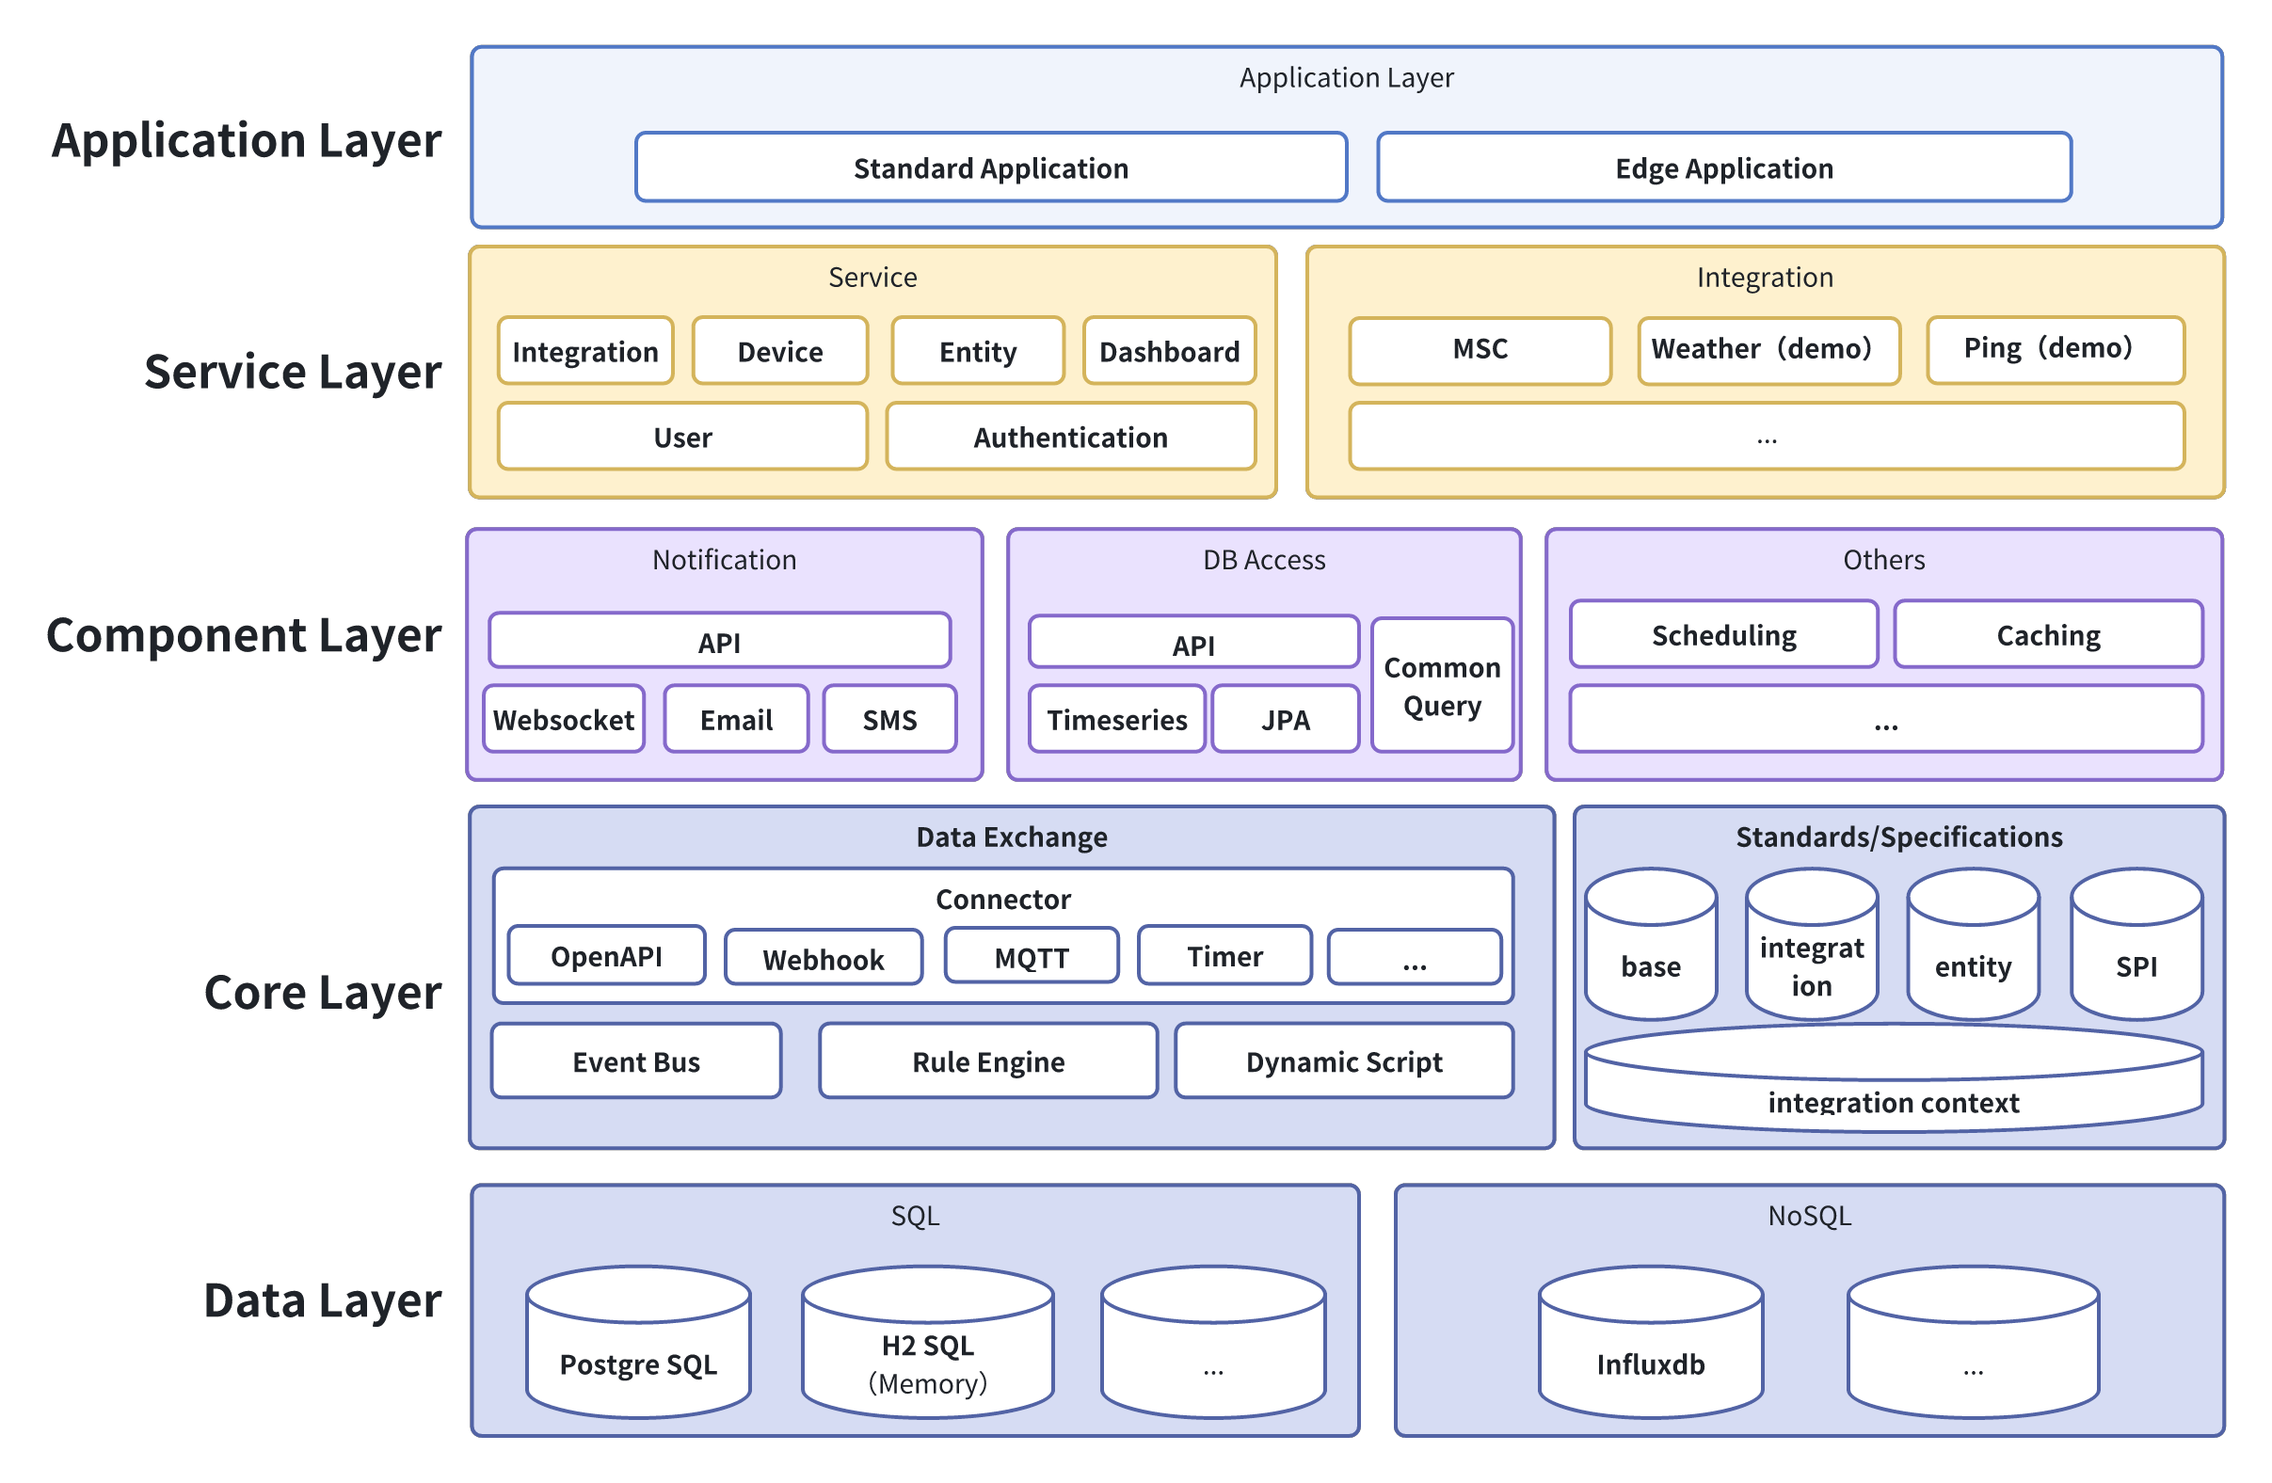
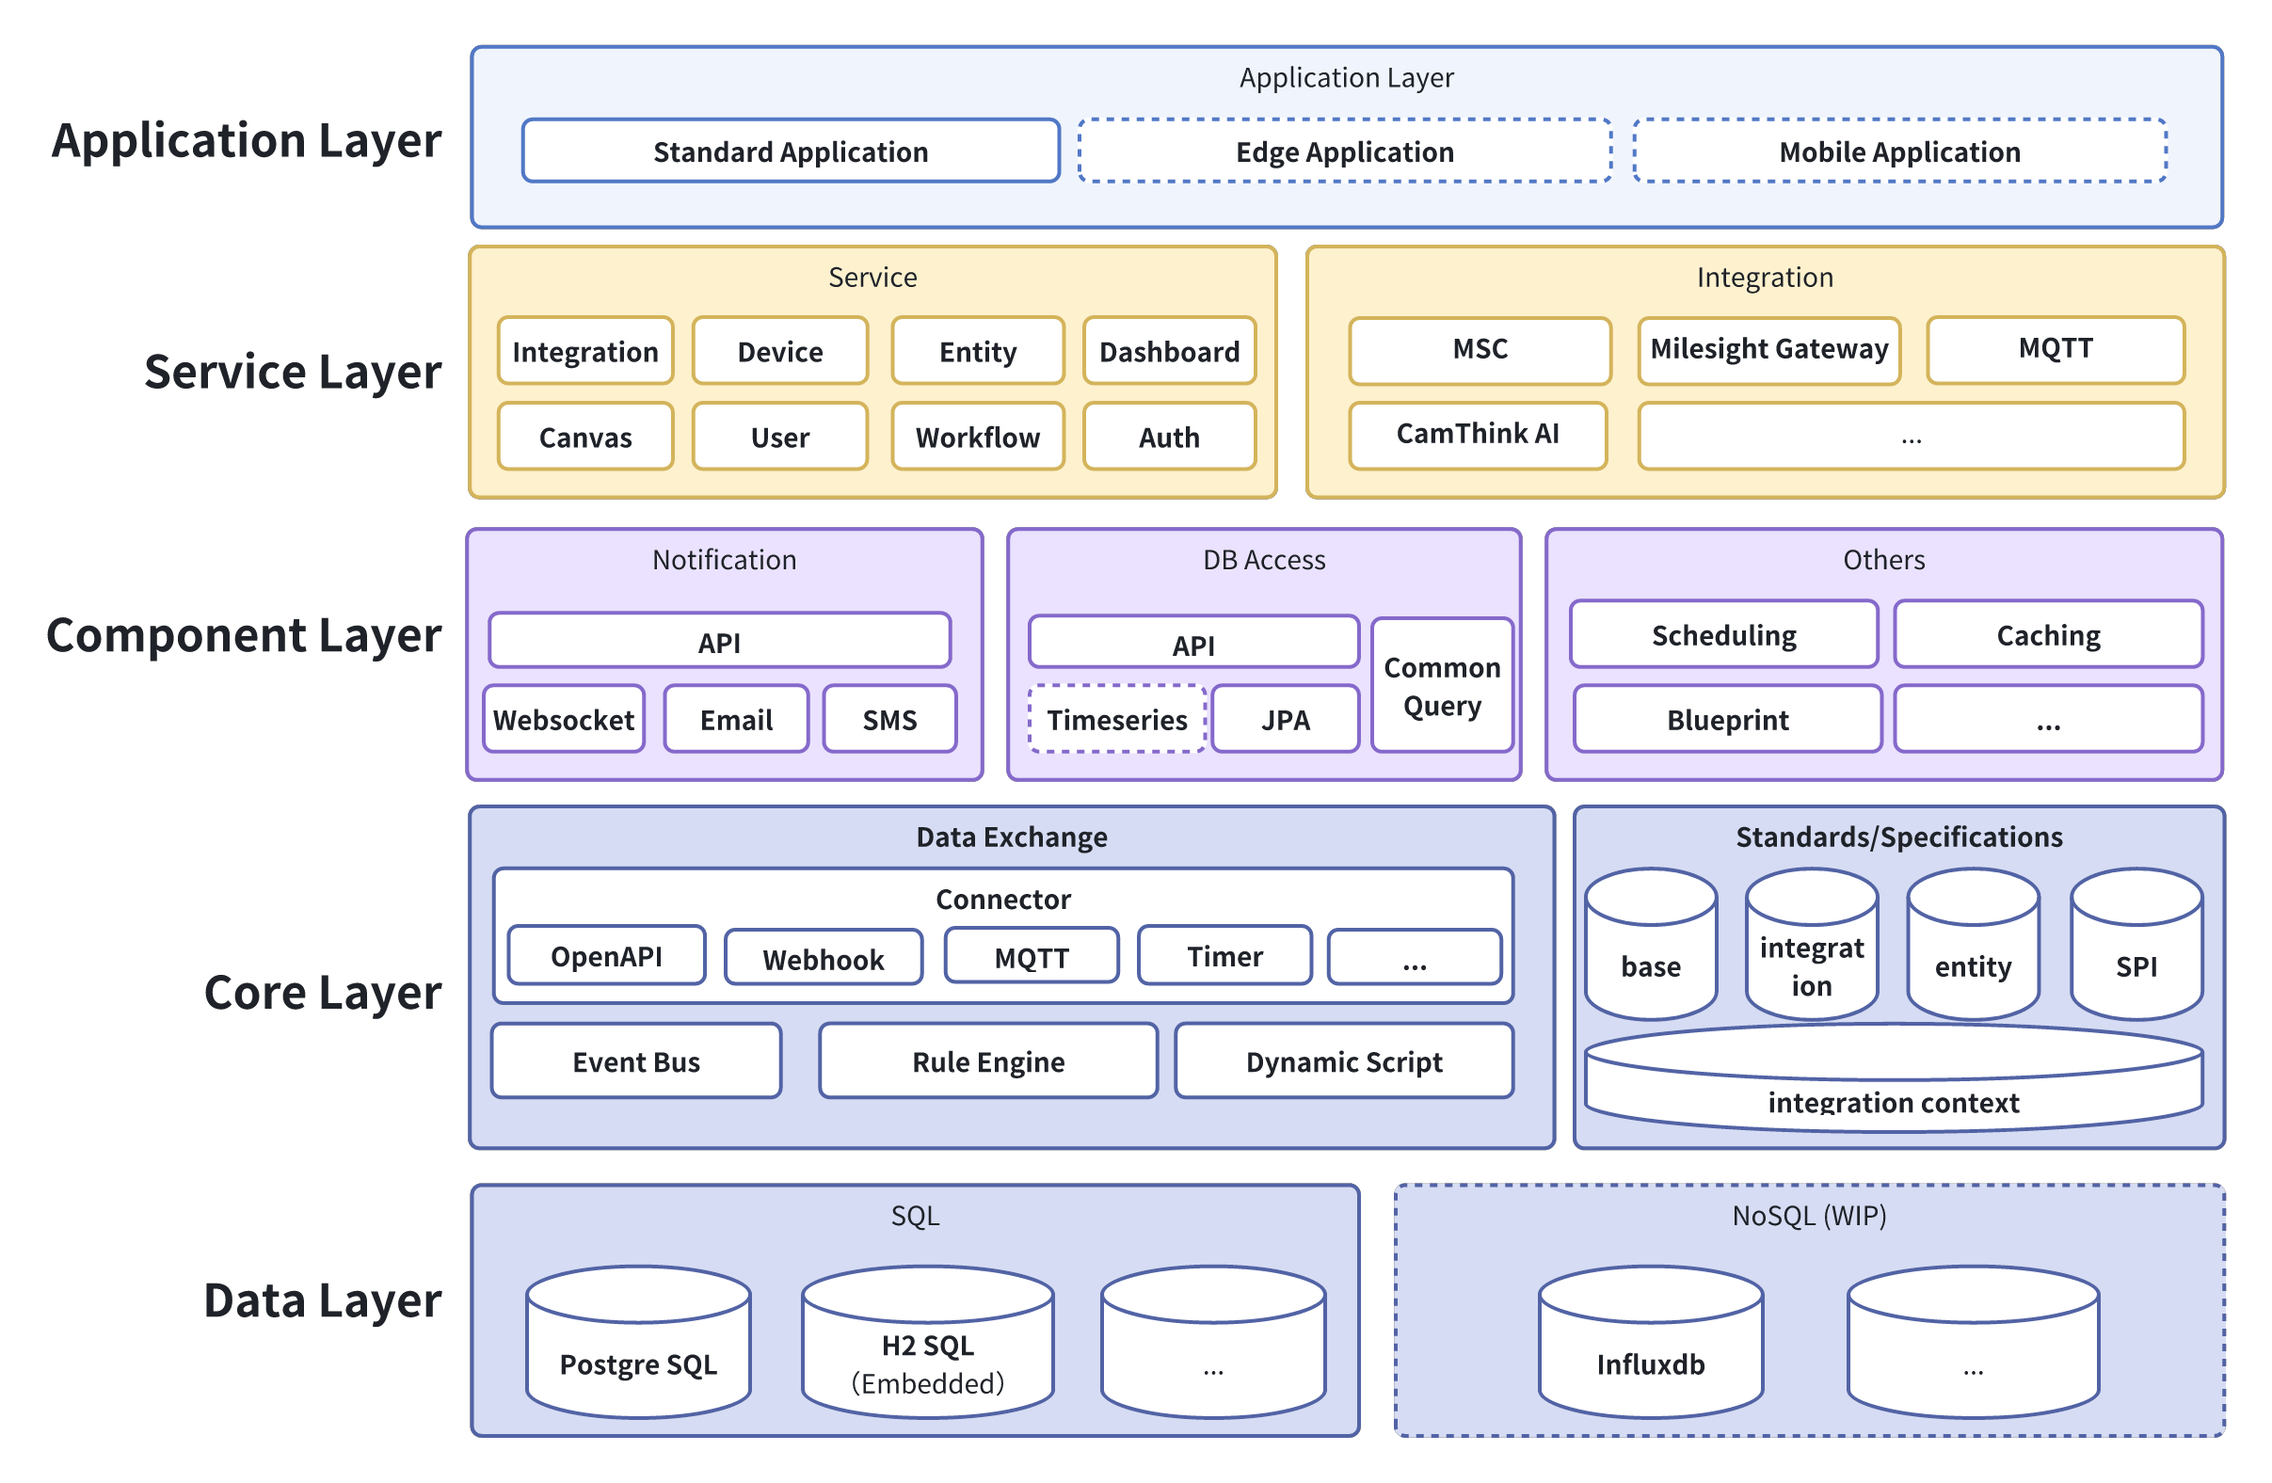
doc: update general doc

diff --git a/i18n/en/docusaurus-plugin-content-docs/current/dev-guides/key-dev-concept.md b/i18n/en/docusaurus-plugin-content-docs/current/dev-guides/key-dev-concept.md
@@ -8,33 +8,38 @@ import { ProjectName } from '/src/consts';
 
 ## Concepts
 
-### Identifier
-An `identifier` refers to the unique name of an object, which must be distinct within the same **namespace**.
+### identifier
+An `identifier` refers to the unique identifier of an object, which must not be duplicated within the same **namespace**.
 
-It can only contain the following characters: `A-Z`, `a-z`, `0-9`, `_`, `@`, `#`, `-`, `/`, `[`, `]`, `:`, and it is recommended to use **Snake Case (lowercase letters with underscores, such as `foo_bar`)** for naming.
+It can only contain the following characters: `A-Z` `a-z` `0-9` `_` `@` `#` `-` `/` `[` `]` `:`, and it is recommended to use **snake_case** (lowercase letters with underscores, such as `foo_bar`) for naming.
 
-* For **integrations** the namespace is **global**, meaning that different integrations within a single {ProjectName} application instance cannot have duplicate integration `identifiers`. Generally, all {ProjectName} integration `identifiers` should be unique.
-* For **devices**, the namespace is the **integration to which the device belongs**, meaning that each device within an integration should have a unique `identifier`, but device `identifiers` can be duplicated across different integrations. If integrating with third-party platforms, it is recommended to use the third-party platform's device identifier as the `identifier` to facilitate mapping between the integration and the corresponding device on that platform.
-* For **entities**:
-    * The namespace of an **integration's entity** is **its integration**.
-    * The namespace of a **device's entity** is **its device**. Entity `identifiers` can be duplicated across different integrations/devices.
-    * The namespace of a **child entity** is **its parent entity**. Child entity `identifiers` can be duplicated across different parent entities.
+#### Integration Identifier
+The namespace is **global**, meaning that different integrations within a single {ProjectName} application instance cannot have duplicate integration `identifier`s. In general, all integration `identifier`s in {ProjectName} should be unique.
+
+#### Device Identifier
+The namespace is **within the integration**, meaning that each device's `identifier` within an integration must be unique. Device `identifier`s can be duplicated across different integrations. If integrating with a third-party platform, we recommend using the device identifier from the third-party platform as the `identifier` for easier mapping between the integration and corresponding devices on that platform.
+
+#### Entity Identifier
+* The namespace for **integration entities** is **their integration**.
+* The namespace for **device entities** is **their device**. Entity `identifier`s may be duplicated across different integrations/devices.
+* The namespace for **child entities of a parent entity** is **their parent entity**. Child entity `identifier`s may be duplicated across different parent entities.
 
 :::tip Full Identifier
-In addition to the `identifier`, a child entity also has a `fullIdentifier`, which includes the identifier of its parent entity.
+Child entities also have the concept of a `fullIdentifier`, which includes the identifier of the parent entity.
 
-For example, if a child entity's `identifier` is `bar` and its parent entity's `identifier` is `foo`, then the child entity's `fullIdentifier` would be `foo.bar`.
+For example: If a child entity's `identifier` is `bar` and its parent entity's `identifier` is `foo`, then the child entity's `fullIdentifier` would be `foo.bar`.
 :::
 
-### Key
 
-The concept of a key is primarily significant for **entities**.
+### key
 
-The key format for an **integration's entity** is:
+The concept of a key is typically only meaningful for **entities**.
+
+The key format for **integration entities** is like:
 ```
-{integration_identifier}.integration.{entity_identifier}[.{child_entity_identifier}]
+{integration identifier}.integration.{entity identifier}[.{child entity identifier}]
 ```
-The key format for a **device's entity** is:
+The key format for **device entities** is like:
 ```
-{integration_identifier}.device.{device_identifier}.{entity_identifier}[.{child_entity_identifier}]
+{integration identifier}.device.{device identifier}.{entity identifier}[.{child entity identifier}]
 ```

diff --git a/docs/dev-guides/key-dev-concept.md b/docs/dev-guides/key-dev-concept.md
@@ -14,21 +14,22 @@ import { ProjectName } from '/src/consts';
 
 只能含有以下字符:`A-Z` `a-z` `0-9` `_` `@` `#` `$` `-` `/` `[` `]` `:`，且最好以**蛇形(小写字母加下划线，如 `foo_bar`)命名**。
 
+#### 集成的identifier
+命名空间是**全局**，即一个{ProjectName}应用实例中的不同集成不能拥有重复的集成`identifier`。一般来说，所有{ProjectName}集成的`identifier`都不应该重复。
 
-* 对于**集成**来说，命名空间是**全局**，即一个{ProjectName}应用实例中的不同集成不能拥有重复的集成`identifier`。一般来说，所有{ProjectName}集成的`identifier`都不应该重复。
-* 对于**设备**来说，命名空间是这个**设备的所属的集成**，即一个集成下的每个设备的`identifier`都应该不同，集成之间的设备`identifier`可以重复。如果是与第三方平台集成，我们建议将第三方平台的设备标识符作为`identifier`，方便集成与这个平台的对应设备建立映射关系。
-* 对于**实体**来说：
-    * **集成的实体**命名空间是**它的集成**
-    * **设备的实体**命名空间是**它的设备**。不同集成/设备下实体的`identifier`可以重复
-    * **父实体的子实体**命名空间是**它的父实体**。不同父实体下子实体`identifier`可以重复
+#### 设备的identifier
+命名空间是**设备所在的集成**，即一个集成下的每个设备的`identifier`都应该不同，集成之间的设备`identifier`可以重复。如果是与第三方平台集成，我们建议将第三方平台的设备标识符作为`identifier`，方便集成与这个平台的对应设备建立映射关系。
+
+#### 实体的identifier
+* **集成的实体**的命名空间是**它的集成**
+* **设备的实体**的命名空间是**它的设备**。不同集成/设备下实体的`identifier`可以重复
+* **父实体的子实体**的命名空间是**它的父实体**。不同父实体下子实体`identifier`可以重复
 
 :::tip Full Identifier
-子实体除了`identifier`以外，还有`fullIdentifier`，表示包括父实体在内的标识符
+子实体还有`fullIdentifier`的概念，表示包括父实体在内的标识符。
 
 例如：某个子实体的`identifier`是`bar`，其父实体的`identifier`是`foo`。那么这个子实体的`fullIdentifier`就是`foo.bar`
 :::
-
-
 
 
 ### key

diff --git a/docs/user-guides/user-guide/workflow.md b/docs/user-guides/user-guide/workflow.md
@@ -123,7 +123,7 @@ sidebar_position: 5
 | 实体赋值 | 将该工作流前面节点的输出参数结果赋值到指定实体上。           |
 | 实体选择 | 选择实体的当前值作为参数传入工作流，用于后面节点的使用。     |
 | 服务调用 | 调用实体的服务或其它工作流。                                 |
-| 代码     | 编写代码实现灵活的数据处理功能， Beaver IoT支持JavaScript (ES6), Python(2.7), Groovy(4.0.26)和MVEL(2.5.2)编程语言。编写代码前，需要定义代码中会使用到的输入参数；如需将代码结果传递到工作流的后续节点，则需定义输出参数。配置完成后可点击标题旁的Test this Node按钮测试代码能否正常运行并输出正确结果。 |
+| 代码     | 编写代码实现灵活的数据处理功能， Beaver IoT支持JavaScript (ES6), Python 3, Groovy(4.0.26)和MVEL(2.5.2)编程语言。编写代码前，需要定义代码中会使用到的输入参数；如需将代码结果传递到工作流的后续节点，则需定义输出参数。配置完成后可点击标题旁的Test this Node按钮测试代码能否正常运行并输出正确结果。 |
 
 控制类节点：
 

diff --git a/i18n/en/docusaurus-plugin-content-docs/current/user-guides/user-guide/workflow.md b/i18n/en/docusaurus-plugin-content-docs/current/user-guides/user-guide/workflow.md
@@ -126,7 +126,7 @@ Action Node:
 | Entity Assigner    | Assign the output values from preceding nodes to selected entities. |
 | Entity Selection   | Select the entities to pass into this workflow to work as the arguments of subsequent nodes. |
 | Service Invocation | Invoke the services from entities or other workflows.        |
-| Code               | Write code to achieve flexible data process functions. Beaver IoT supports these languages: JavaScript (ES6), Python(2.7), Groovy(4.0.26), and MVEL(2.5.2). Before writing, it is necessary to define the input arguments used in the codes; if you are required to pass the output results to subsequent nodes, it is also necessary to define the output variables. |
+| Code               | Write code to achieve flexible data process functions. Beaver IoT supports these languages: JavaScript (ES6), Python 3, Groovy(4.0.26), and MVEL(2.5.2). Before writing, it is necessary to define the input arguments used in the codes; if you are required to pass the output results to subsequent nodes, it is also necessary to define the output variables. |
 
 Control Node:
 

diff --git a/i18n/en/docusaurus-plugin-content-docs/current/dev-guides/backend/general-arch.md b/i18n/en/docusaurus-plugin-content-docs/current/dev-guides/backend/general-arch.md
@@ -10,7 +10,7 @@ import { ProjectName } from '/src/consts';
 ![Functional Architecture](/img/en/functional-arch.png)
 > The image illustrates the conceptual architecture. Some components are continuously being refined.
 
-- **Data Layer**: The data storage layer, including relational databases and NoSQL (time-series databases). It supports out-of-the-box in-memory databases like H2 and Postgres SQL.
+- **Data Layer**: The data storage layer. It supports Postgres SQL and out-of-the-box databases like H2.
 - **Core Layer**:
     - **Data Exchange**: Core support capabilities, including rule engines, dynamic scripts, event buses, and other essential functionalities. It also includes connectors built on these core capabilities to support device data upstream and downstream business scenarios.
     - **Standards/Specifications**: The {ProjectName} platform defines standards and specifications for integrated development, including basic standards, integration standards, entity standards, SPI standards, and more, to standardize integrated service development.

diff --git a/docs/dev-guides/backend/general-arch.md b/docs/dev-guides/backend/general-arch.md
@@ -11,7 +11,7 @@ import { ProjectName } from '/src/consts';
 ![Functional Architecture](/img/zh/functional-arch.png)
 > 图片为架构思路的示意图，部分组件仍在持续完善中
 
-- **数据层**：数据存储层，包含关系库和NoSQL（时序库），其中关系库支持开箱即用的内存数据库H2及Postgres SQL
+- **数据层**：数据存储层，关系库支持Postgres SQL以及开箱即用的数据库H2
 - **核心层**：
     - **数据交换**：核心支撑能力，包含规则引擎、动态脚本、事件总线等核心能力，以及基于核心能力构建的连接器（Connector），来支撑设备数据上行、下行业务场景
     - **规范/标准**：{ProjectName} 平台定义集成开发的标准规范，包括基础规范、集成规范、实体规范、SPI规范等，以规范化集成服务开发

diff --git a/docs/dev-guides/backend/build-integration.md b/docs/dev-guides/backend/build-integration.md
@@ -154,18 +154,24 @@ import org.springframework.stereotype.Component;
 public class MyIntegrationBootstrap implements IntegrationBootstrap {
     @Override
     public void onPrepared(Integration integration) {
-        // do nothing
+        // NO tenant context
     }
 
     @Override
     public void onStarted(Integration integrationConfig) {
+        // NO tenant context
+    }
+
+    @Override
+    public void onEnabled(Integration integrationConfig) {
+        // WITH tenant context
         // highlight-next-line
         System.out.println("Hello, world!");
     }
 
     @Override
     public void onDestroy(Integration integration) {
-        // do nothing
+        // NO tenant context
     }
 }
 ```

diff --git a/i18n/en/docusaurus-plugin-content-docs/current/dev-guides/backend/build-integration.md b/i18n/en/docusaurus-plugin-content-docs/current/dev-guides/backend/build-integration.md
@@ -154,18 +154,24 @@ import org.springframework.stereotype.Component;
 public class MyIntegrationBootstrap implements IntegrationBootstrap {
     @Override
     public void onPrepared(Integration integration) {
-        // do nothing
+        // NO tenant context
     }
 
     @Override
     public void onStarted(Integration integrationConfig) {
+        // NO tenant context
+    }
+
+    @Override
+    public void onEnabled(Integration integrationConfig) {
+        // WITH tenant context
         // highlight-next-line
         System.out.println("Hello, world!");
     }
 
     @Override
     public void onDestroy(Integration integration) {
-        // do nothing
+        // NO tenant context
     }
 }
 ```

diff --git a/i18n/en/docusaurus-plugin-content-docs/current/dev-guides/how-to-contrib.md b/i18n/en/docusaurus-plugin-content-docs/current/dev-guides/how-to-contrib.md
@@ -1,5 +1,5 @@
 ---
-sidebar_position: 8
+sidebar_position: 7
 ---
 # Contribution Guide
 

diff --git a/docs/dev-guides/how-to-contrib.md b/docs/dev-guides/how-to-contrib.md
@@ -1,5 +1,5 @@
 ---
-sidebar_position: 8
+sidebar_position: 7
 ---
 # 贡献指南
 
